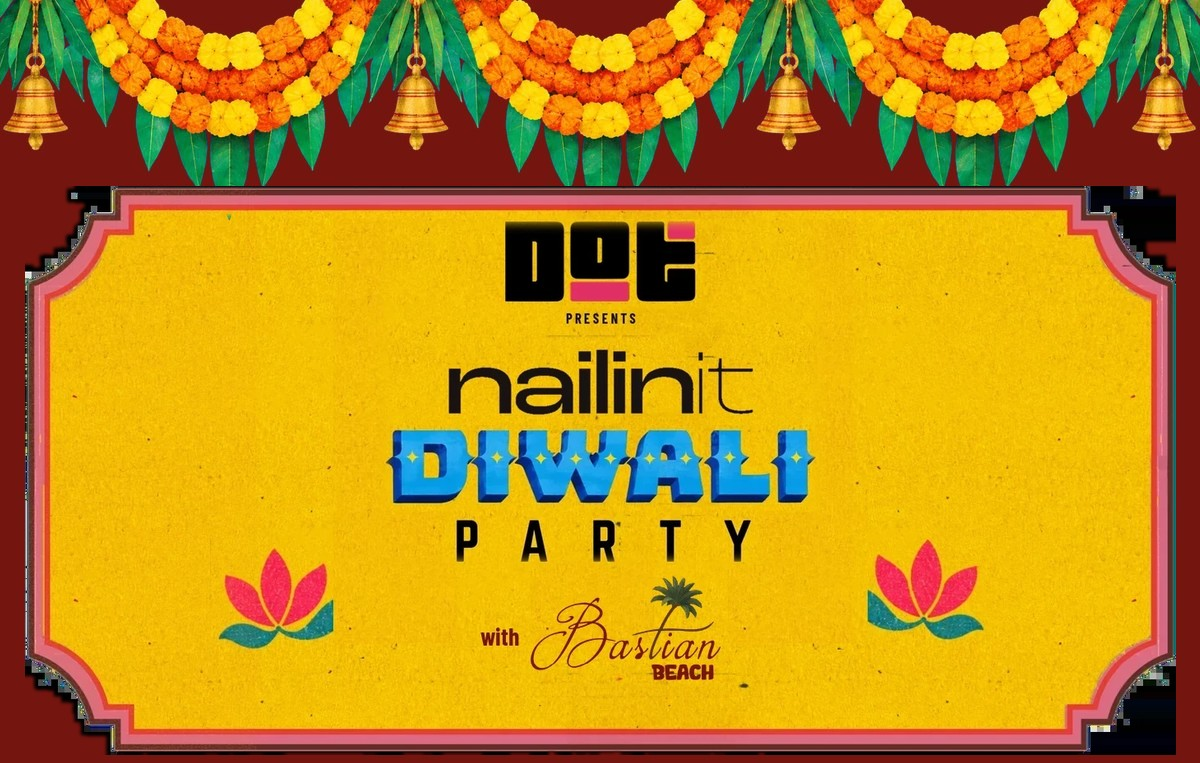
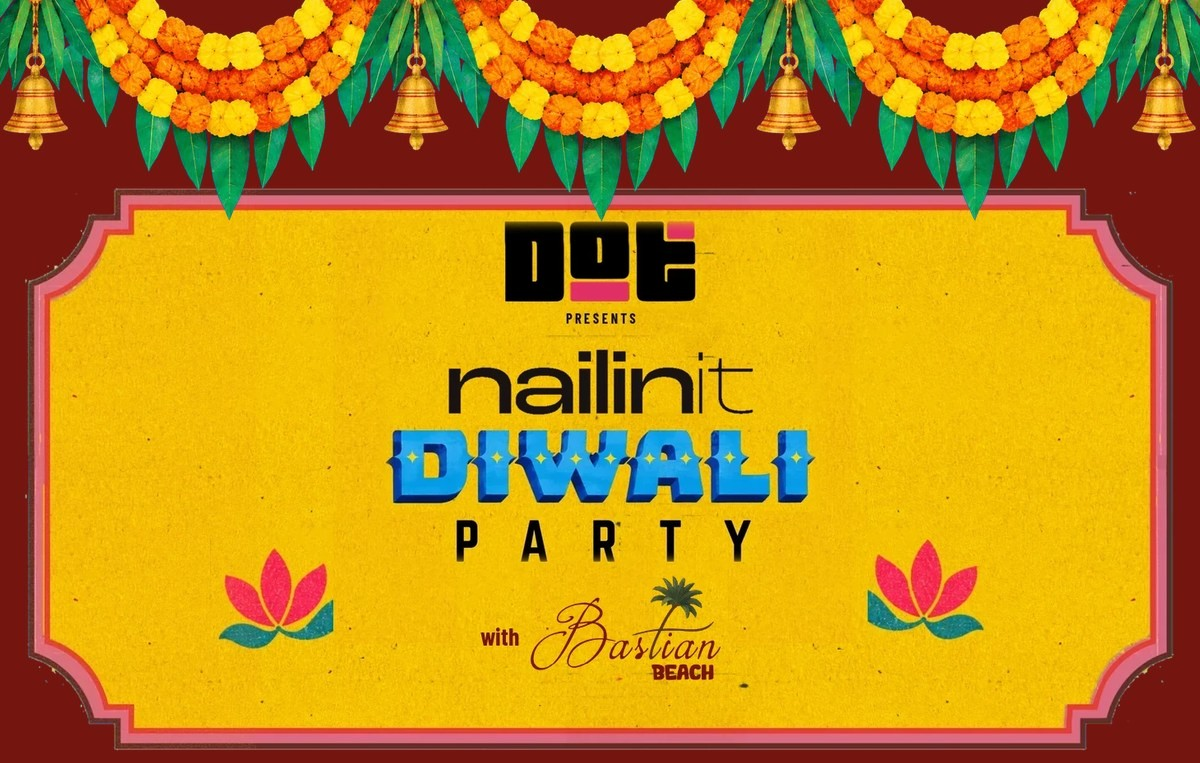
diwali: demo variant on diwaliparty.live (own D1, builders-group RSVP); cleaner og/email art; bump card ?v

diff --git a/diwali/app.js b/diwali/app.js
@@ -38,7 +38,7 @@ function applyName() {
   if ($('#wa')) $('#wa').href = `https://wa.me/${C.rsvp.whatsapp}?text=${encodeURIComponent(C.rsvp.text.replace('{name}', n))}`;
 }
 applyName();
-const PARTY = window.SITE === 'party';
+const PARTY = window.SITE === 'party', DEMO = window.SITE === 'demo';
 document.querySelectorAll('[data-c]').forEach(e => { e.textContent = C.event[e.dataset.c] || ''; });
 if (C.event.mapUrl) { const m = $('#map'); m.href = C.event.mapUrl; m.hidden = false; }
 $('#ics').addEventListener('click', () => {
@@ -127,7 +127,7 @@ function layout() {
   // under the ticket: the partner strip, then the welcome line (+ "hosted by" on party.nailin.it), then the
   // buttons pinned to the bottom; the ticket gets whatever room is left between the toran and all that
   const host = window.SITE === 'party';
-  const PH = vw > 600 ? 100 : 98;      // partner strip between the ticket and the welcome line
+  const PH = DEMO ? 0 : vw > 600 ? 100 : 98;      // partner strip (none on the demo) between the ticket and the welcome line
   const below = (vw > 600 ? 150 : 175) + PH + (host ? 112 : 66), top = Math.max(64, vh * .08);
   const room = vh - top - below;
   C2.fh = Math.max(110, Math.min(room, (vw * .92) / POSTER_AR, 420)); C2.fs = C2.fh / C2.h;
@@ -646,7 +646,7 @@ function track(event, extra = {}) {
     game: (event === 'wall' || event === 'play') ? extra.rsvp : '', title: extra.link || '', text: extra.device || '' };
   try { const b = new Blob([JSON.stringify(api)], { type: 'text/plain' }); navigator.sendBeacon ? navigator.sendBeacon(API_BASE + '/api/track', b) : fetch(API_BASE + '/api/track', { method: 'POST', body: b, keepalive: true }); } catch (e) {}
 }
-const API_BASE = /nailin\.it$|dotmediabase\.com$|pages\.dev$|localhost$|^127\./.test(location.hostname) ? '' : 'https://diwali.nailin.it';
+const API_BASE = /nailin\.it$|dotmediabase\.com$|diwaliparty\.live$|pages\.dev$|localhost$|^127\./.test(location.hostname) ? '' : 'https://diwali.nailin.it';
 window.MKD_API = API_BASE;
 window.MKDTrack = (ev, extra) => track(ev, extra);
 /* RSVP: "yes" = apply (name + phone + email) → hosts approve in /admin → entry pass with QR by email */
@@ -658,7 +658,15 @@ const DONE = {
   declined: ['thank you!', () => "the list is full this time, but we're so glad you wanted to come."],
   no: ['next time then.', () => "we'll miss you at the mohalla."],
   yes: ['pakka!', () => `see you ${C.event.dateLong}, ${C.event.time} · ${C.event.venue}`],      // party.nailin.it: a plain yes, no pass
+  joined: ["you're in!", () => "this party was a demo, but the group is real: we swap the AI tools, prompts and tricks behind sites like this one."],   // diwaliparty.live
 };
+if (DEMO) {   // the demo's "yes" is a door into the builders group, not a guest list
+  $('#rsvpForm h2').innerHTML = 'want to make <span class="foil">one</span>?';
+  $('#rsvpForm .b-note').textContent = "this invite is a demo. say yes and you're in our little group where we share how to build things like it with AI.";
+  $('#apSend').textContent = 'let me in';
+  if (C.demo.group) $('#groupBtn').href = C.demo.group;
+  const pm = $('.pc-mark b'); if (pm) pm.textContent = C.event.postmark;
+}
 function showRsvp(st) {
   const [head, msg] = DONE[st] || [];
   rsvpAsk.hidden = !!st || !rsvpForm.hidden; rsvpDone.hidden = !st;
@@ -666,7 +674,8 @@ function showRsvp(st) {
   if (!st) return;
   $('#doneHead').textContent = head;
   $('#doneMsg').textContent = msg(store.get(RKEY + ':email'));
-  $('#ics').hidden = !['applied', 'approved', 'yes'].includes(st);
+  $('#ics').hidden = DEMO || !['applied', 'approved', 'yes'].includes(st);
+  $('#groupBtn').hidden = st !== 'joined' || !(C.demo && C.demo.group);
   $('#change').hidden = st === 'approved';
 }
 function openForm(on) {
@@ -700,7 +709,7 @@ rsvpForm.addEventListener('submit', async e => {
     track('rsvp', { rsvp: 'yes' });
   } catch (x) {
     $('#apErr').textContent = x.message === 'email' ? "that email doesn't look right" : x.message === 'phone' ? 'add your phone number (10 digits)' : "couldn't send. check your internet and try again?";
-  } finally { btn.disabled = false; btn.textContent = 'send my request'; }
+  } finally { btn.disabled = false; btn.textContent = DEMO ? 'let me in' : 'send my request'; }
 });
 showRsvp((PARTY ? {} : { yes: 'applied' })[store.get(RKEY)] || store.get(RKEY) || '');
 // the hosts may have approved since the last visit

diff --git a/diwali/index.html b/diwali/index.html
@@ -32,13 +32,13 @@
 <script>/* three invites, one site: party.nailin.it = hosted by Khushi, Tanishq & Shubham; diwali.dotmediabase.com = DOT MEDIA up front; everywhere else = DOT presents */
 /* every visit starts at the envelope: the page is scroll-locked until the reveal, so a restored scroll position would strand you mid-page */
 try { history.scrollRestoration = 'manual'; } catch (e) {} window.scrollTo(0, 0); addEventListener('pageshow', () => { if (document.body && document.body.classList.contains('locked')) window.scrollTo(0, 0); });
-window.SITE = (/^(localhost|127\.)/.test(location.hostname) && new URLSearchParams(location.search).get('site')) || (/^party\./.test(location.hostname) ? 'party' : /dotmediabase\./.test(location.hostname) ? 'media' : 'dot'); document.documentElement.dataset.site = SITE;   /* ?site= works only on localhost, for testing */
-window.CARD = SITE === 'party' ? 'assets/invite_card_host.webp?v=4' : SITE === 'media' ? 'assets/invite_card_media.webp?v=4' : 'assets/invite_card.webp?v=4';
+window.SITE = (/^(localhost|127\.)/.test(location.hostname) && new URLSearchParams(location.search).get('site')) || (/^party\./.test(location.hostname) ? 'party' : /dotmediabase\./.test(location.hostname) ? 'media' : /diwaliparty\.live$/.test(location.hostname) ? 'demo' : 'dot'); document.documentElement.dataset.site = SITE;   /* ?site= works only on localhost, for testing */
+window.CARD = SITE === 'party' ? 'assets/invite_card_host.webp?v=5' : SITE === 'media' ? 'assets/invite_card_media.webp?v=5' : SITE === 'demo' ? 'assets/invite_card_demo.webp?v=5' : 'assets/invite_card.webp?v=5';
 (l => { l.rel = 'preload'; l.as = 'image'; l.href = CARD; document.head.append(l); })(document.createElement('link'));</script>
 <link rel="preconnect" href="https://fonts.googleapis.com">
 <link rel="preconnect" href="https://fonts.gstatic.com" crossorigin>
 <link href="https://fonts.googleapis.com/css2?family=Bakbak+One&family=Bungee&family=Teko:wght@400;500;600&family=Barlow:wght@500;600;700&family=Barlow+Condensed:wght@500;600;700&family=Palanquin+Dark:wght@400;600;700&display=swap" rel="stylesheet">
-<link rel="stylesheet" href="style.css?v=1793125948">
+<link rel="stylesheet" href="style.css?v=1793129018">
 <style>
 /* loader: inline so it paints before anything else arrives */
 #ldr { position: fixed; inset: 0; z-index: 100; display: grid; place-items: center; background: radial-gradient(90% 70% at 50% 45%, #3a0a06 0%, #1a0503 70%, #0e0302 100%); color: #f7e6c8; transition: opacity .6s ease, visibility 0s linear .6s; }
@@ -202,6 +202,7 @@ window.CARD = SITE === 'party' ? 'assets/invite_card_host.webp?v=4' : SITE === '
         <h2 id="doneHead">pakka!</h2>
         <p class="b-note" id="doneMsg"></p>
         <button class="sign blue" id="ics" type="button">add to calendar</button>
+        <a class="sign red" id="groupBtn" href="#" target="_blank" rel="noopener" hidden>join the group</a>
         <button class="linkish" id="change" type="button">change answer</button>
       </div>
     </div>
@@ -344,10 +345,10 @@ window.CARD = SITE === 'party' ? 'assets/invite_card_host.webp?v=4' : SITE === '
   <button class="mx-pill" id="mxPlay" type="button" aria-label="Pause music"><span class="mx-eq" aria-hidden="true"><i></i><i></i><i></i><i></i></span><b id="mxTitle">mohalla diwali mix</b><span class="mx-ic" id="mxIc">❚❚</span></button>
   <a class="mx-link" id="mxLink" href="#" target="_blank" rel="noopener" aria-label="Open the playlist on YouTube">↗</a>
 </div>
-<script src="config.js?v=1793125948"></script>
-<script src="lib.js?v=1793125948"></script>
-<script src="app.js?v=1793125948"></script>
-<script src="games.js?v=1793125948"></script>
+<script src="config.js?v=1793129018"></script>
+<script src="lib.js?v=1793129018"></script>
+<script src="app.js?v=1793129018"></script>
+<script src="games.js?v=1793129018"></script>
 <!-- Cloudflare Web Analytics (cookieless page views, both hosts): dash → Analytics & Logs → Web Analytics → diwali.nailin.it -->
 <script defer src="https://static.cloudflareinsights.com/beacon.min.js" data-cf-beacon='{"token": "a5d5840e60434566ad096fb1208ac78d"}'></script>
 </body>

diff --git a/diwali/style.css b/diwali/style.css
@@ -1049,12 +1049,12 @@ body:not(.lit) .decor .kandil .lamp img:not(.bloom) { filter: brightness(.55) sa
 
 /* ═════════ metallic: the invite is foil-printed (gold paper, holo DIWALI, glossy ink) ═════════ */
 .card-foil { position: absolute; inset: 0; pointer-events: none; -webkit-mask: var(--m) center / contain no-repeat; mask: var(--m) center / contain no-repeat; background-size: 260% 260%; background-position: var(--fx, 50%) var(--fy, 50%); }
-.f-gold { --m: url(assets/foil_gold.webp?v=4); mix-blend-mode: overlay; opacity: .95;
+.f-gold { --m: url(assets/foil_gold.webp?v=5); mix-blend-mode: overlay; opacity: .95;
   background-image: repeating-linear-gradient(92deg, rgba(255,255,255,.07) 0 1px, transparent 1px 3px),
     linear-gradient(115deg, #6b4508 0%, #f8dc84 16%, #a8781c 30%, #fff4c2 44%, #b58322 56%, #f6d56e 70%, #7c540e 86%, #e9c45c 100%); }
-.f-blue { --m: url(assets/foil_blue.webp?v=4); mix-blend-mode: color-dodge; opacity: .55;
+.f-blue { --m: url(assets/foil_blue.webp?v=5); mix-blend-mode: color-dodge; opacity: .55;
   background-image: linear-gradient(125deg, #3f7bff 0%, #b98cff 18%, #ffffff 32%, #6ff2d6 46%, #5aa0ff 60%, #ffd1f0 76%, #3f7bff 100%); }
-.f-ink { --m: url(assets/foil_ink.webp?v=4); mix-blend-mode: screen; opacity: .55;
+.f-ink { --m: url(assets/foil_ink.webp?v=5); mix-blend-mode: screen; opacity: .55;
   background-image: linear-gradient(115deg, transparent 38%, rgba(255,250,235,.85) 48%, rgba(255,255,255,.2) 53%, transparent 62%); }
 .card .card-sheen { mix-blend-mode: overlay !important; opacity: .9; }
 
@@ -1428,14 +1428,24 @@ html, body { overscroll-behavior-x: none; }
 .rsvp-form .sign { font-size: 19px; padding: 15px 22px 13px; }
 .rsvp-form .sign:disabled { opacity: .7; }
 .rsvp-form .linkish { display: block; margin: 14px auto 0; color: var(--maroon); opacity: .8; }
-[data-site="party"] .f-gold { --m: url(assets/foil_gold_host.webp?v=4); }
-[data-site="party"] .f-blue { --m: url(assets/foil_blue_host.webp?v=4); }
-[data-site="party"] .f-ink { --m: url(assets/foil_ink_host.webp?v=4); }
+[data-site="party"] .f-gold { --m: url(assets/foil_gold_host.webp?v=5); }
+[data-site="party"] .f-blue { --m: url(assets/foil_blue_host.webp?v=5); }
+[data-site="party"] .f-ink { --m: url(assets/foil_ink_host.webp?v=5); }
 [data-site="party"] .card::after { -webkit-mask-image: url(assets/invite_card_host.webp); mask-image: url(assets/invite_card_host.webp); }
 /* diwali.dotmediabase.com: DOT MEDIA leads the ticket; nailinit is the small credit above DIWALI */
-[data-site="media"] .f-gold { --m: url(assets/foil_gold_media.webp?v=4); }
-[data-site="media"] .f-blue { --m: url(assets/foil_blue_host.webp?v=4); }
-[data-site="media"] .f-ink { --m: url(assets/foil_ink_media.webp?v=4); }
+[data-site="media"] .f-gold { --m: url(assets/foil_gold_media.webp?v=5); }
+[data-site="media"] .f-blue { --m: url(assets/foil_blue_host.webp?v=5); }
+[data-site="media"] .f-ink { --m: url(assets/foil_ink_media.webp?v=5); }
+[data-site="demo"] .f-gold { --m: url(assets/foil_gold_demo.webp?v=5); }
+[data-site="demo"] .f-blue { --m: url(assets/foil_blue_demo.webp?v=5); }
+[data-site="demo"] .f-ink { --m: url(assets/foil_ink_demo.webp?v=5); }
+[data-site="demo"] .card::after { -webkit-mask-image: url(assets/invite_card_demo.webp); mask-image: url(assets/invite_card_demo.webp); }
 
 /* the outfit sign's label matches kab / kaha (an older pink-sign override had put it in Teko) */
 .sgn.s-pink .o-k { font-family: var(--title) !important; font-size: 4.4cqw !important; letter-spacing: .14em !important; font-weight: 400 !important; }
+
+/* diwaliparty.live demo: no venue sign, no partner strip (made-up party) */
+[data-site="demo"] .sgn.s-blue, [data-site="demo"] .partners { display: none; }
+#groupBtn { text-decoration: none; }
+#groupBtn[hidden] { display: none; }
+

diff --git a/diwali/config.js b/diwali/config.js
@@ -46,3 +46,17 @@ window.MKD = {
     text: 'Haan ji! {name} pakka aa rahi/raha hai Mohalle ki Diwali pe 🪔',
   },
 };
+
+// diwaliparty.live: a demo copy for showing people the experience. Not a real party: a made-up date, no venue,
+// and "yes" puts them into the builders group (AI tools + prompts behind sites like this) instead of a guest list.
+if (window.SITE === 'demo') {
+  Object.assign(window.MKD.event, {
+    dateLong: '8 nov, 2026', dateHi: 'रविवार, ८ नवंबर', dateShort: '08·11·26', postmark: '8 NOV 26',
+    venue: '', mapUrl: '', rsvpBy: '',
+    start: '2026-11-08T19:00:00+05:30', end: '2026-11-09T01:00:00+05:30',
+  });
+  window.MKD.demo = {
+    group: '',   // invite link to the builders group (WhatsApp community / Discord): set before sharing
+  };
+}
+

diff --git a/diwali/make.html b/diwali/make.html
@@ -58,8 +58,8 @@
     <table id="tbl" hidden><thead><tr><th>Name</th><th>Link</th><th></th></tr></thead><tbody></tbody></table>
   </section>
 </main>
-<script src="config.js?v=1793125948"></script>
-<script src="lib.js?v=1793125948"></script>
+<script src="config.js?v=1793129018"></script>
+<script src="lib.js?v=1793129018"></script>
 <script>
 (() => {
   const $ = s => document.querySelector(s);
